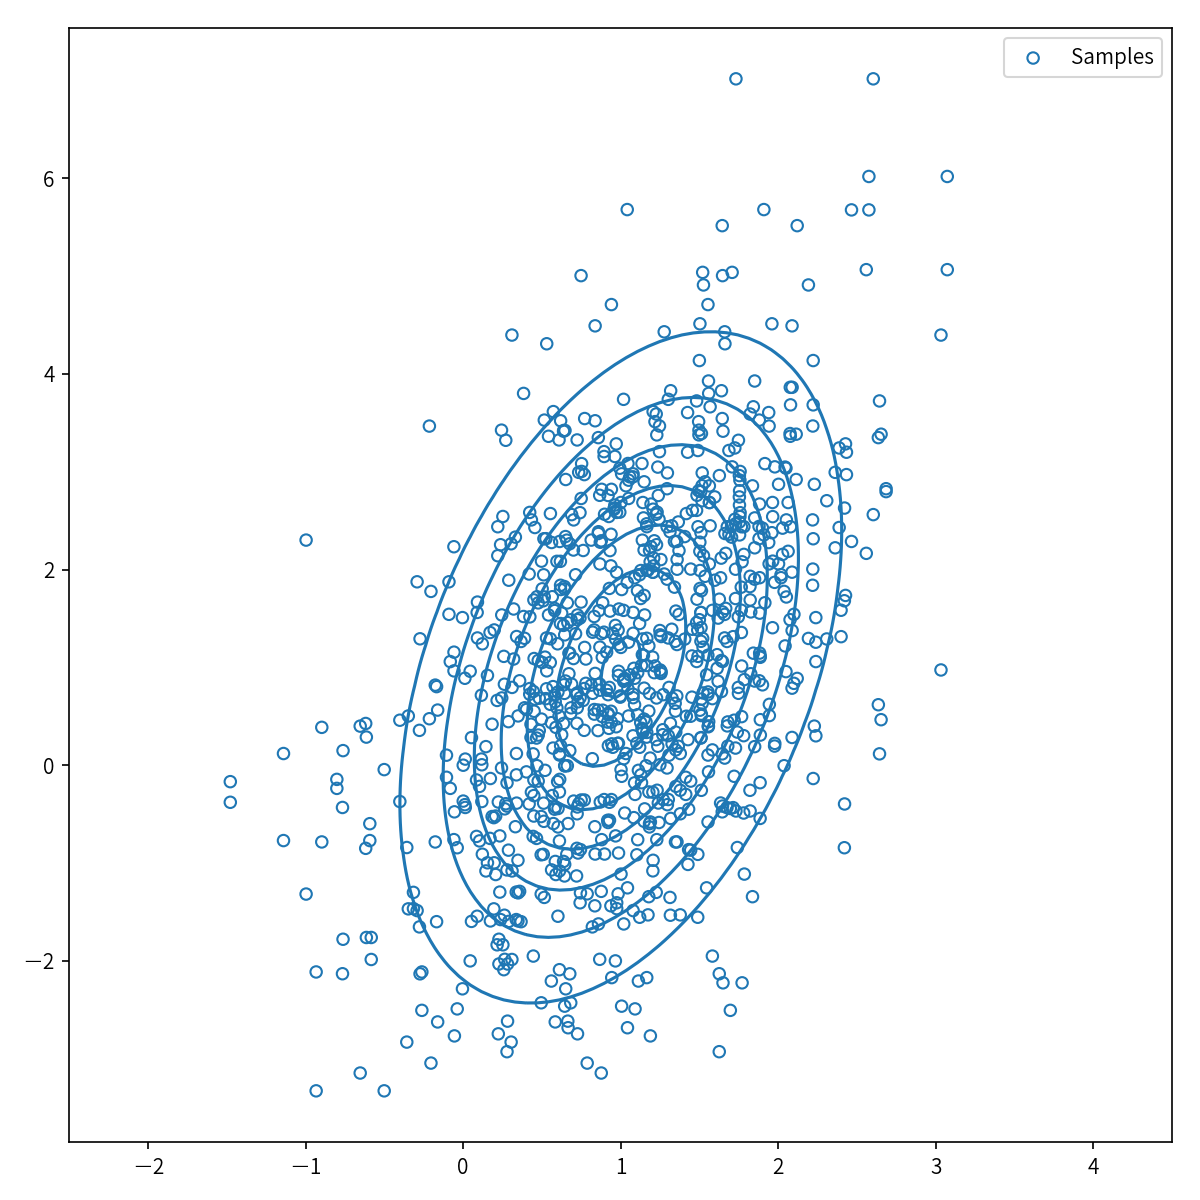
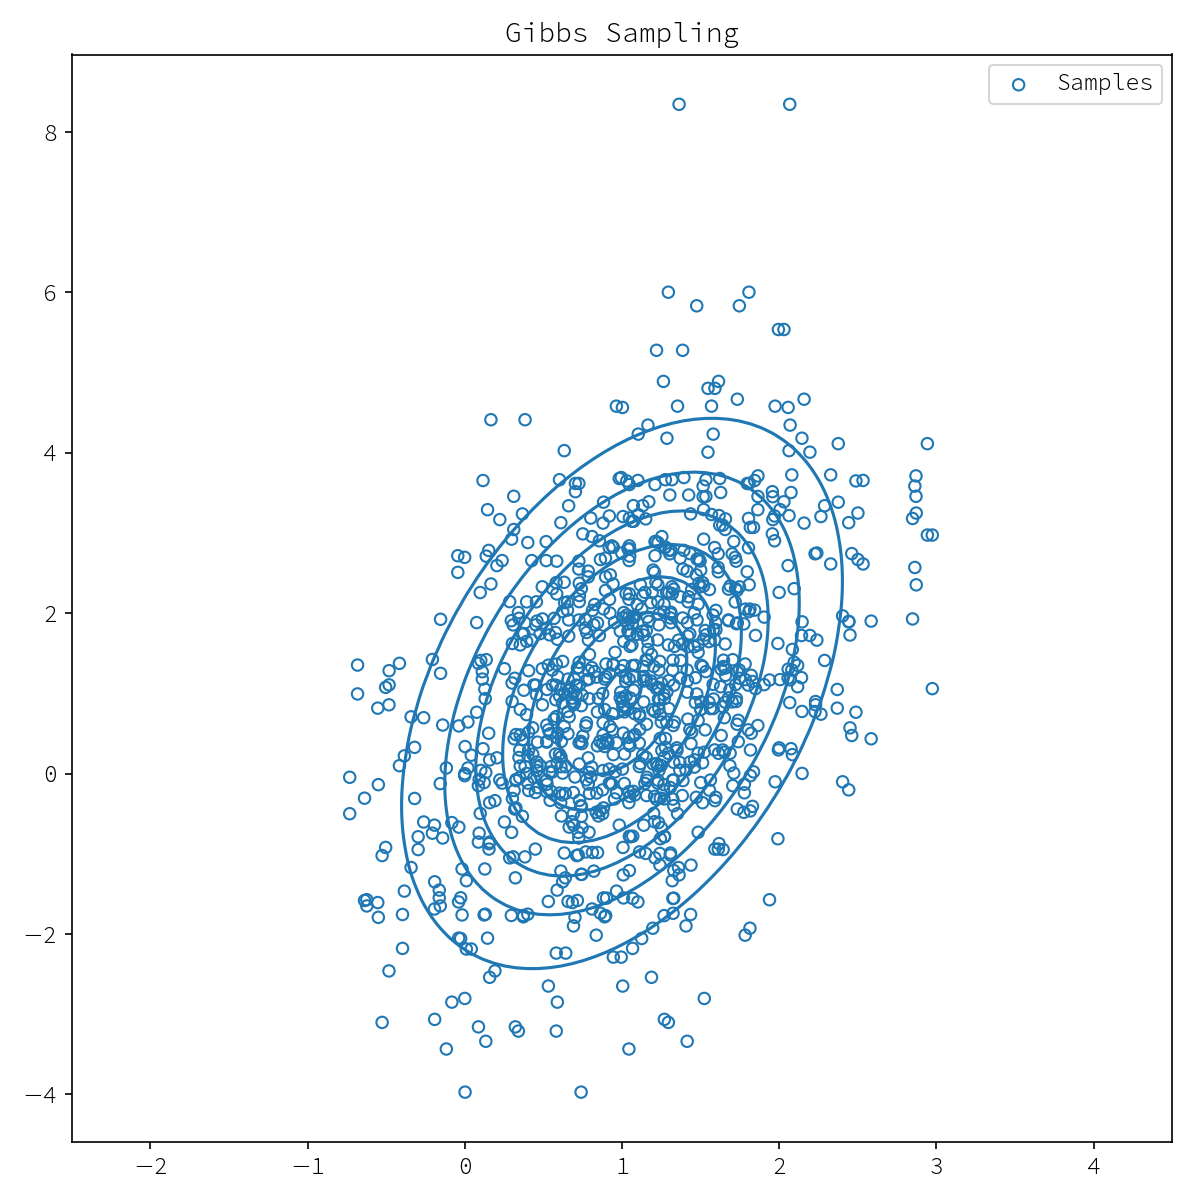
[Add Update] gibbs sampling script and figures

diff --git a/gibbs_sampling.py b/gibbs_sampling.py
@@ -79,7 +79,8 @@ if __name__ == '__main__':
     Pos[:, :, 0] = X
     Pos[:, :, 1] = Y
     Z = multi_norm.pdf(Pos)
-    ax1.contour(X, Y, Z, colors="C0")
+    ax1.contour(X, Y, Z, colors="C0", label="True Probability Density Function")
     ax1.legend()
+    ax1.set_title("Gibbs Sampling")
     fig.tight_layout()
     fig.savefig("gibbs_sampling.png", dpi=150)
